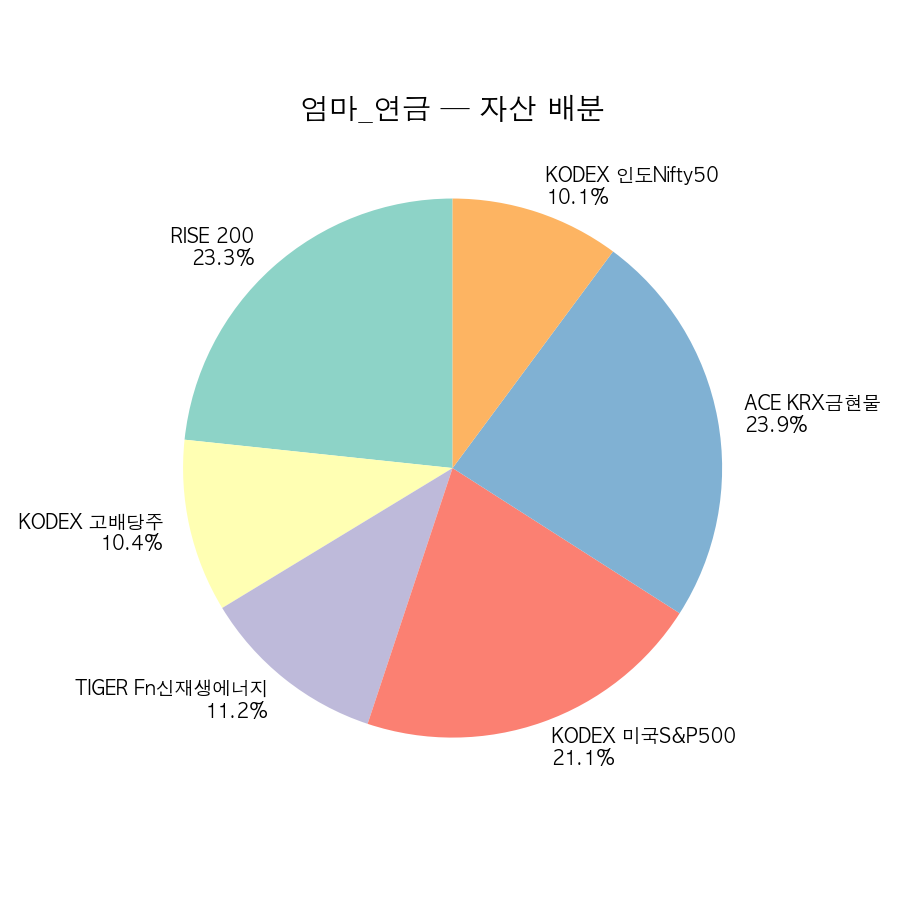
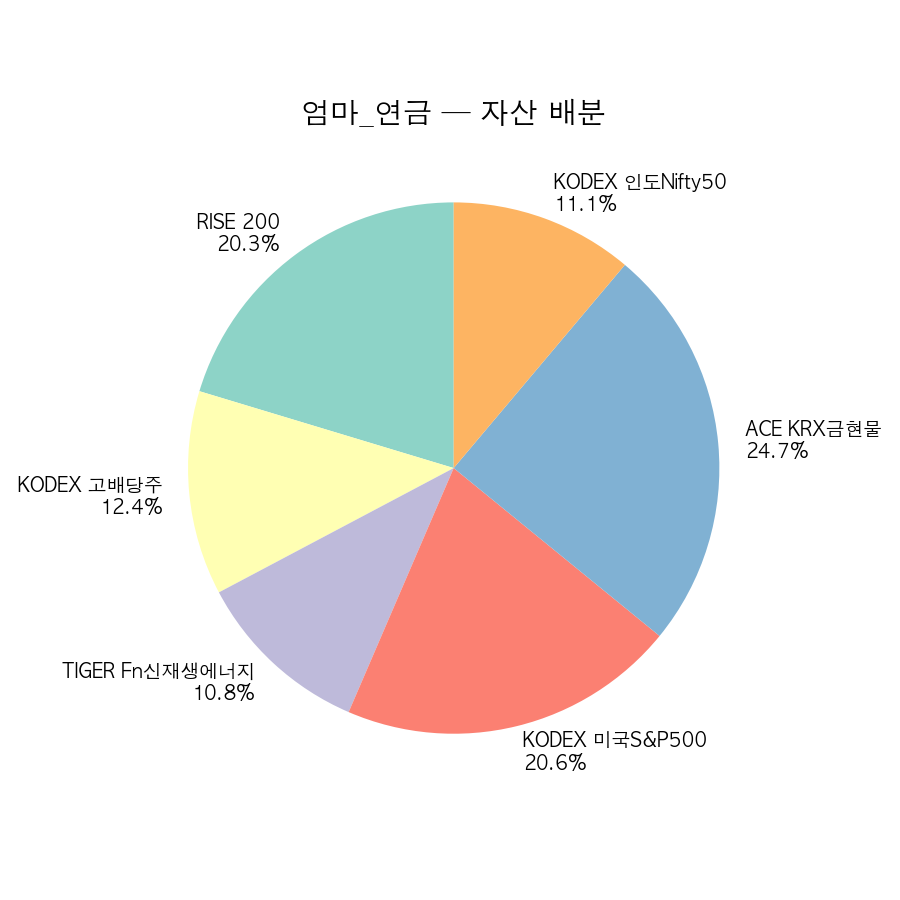
섹션별 주간 리포트 (자동 생성)

diff --git a/_posts/2026-11-06-etf-weekly-week31.md b/_posts/2026-11-06-etf-weekly-week31.md
@@ -1,0 +1,50 @@
+---
+layout: post
+title: "Week 31 — 부모님 연금 ETF 주간 리포트"
+date: 2026-11-06
+categories: [investing, etf]
+tags: [weekly]
+---
+
+> 부모님 연금저축 ETF 실험 — 31주차 기록.
+
+---
+
+## 31주차 성과
+
+### 엄마_연금
+
+| 종목 | 수량 | 평단가 | 종가 | 평가액 | 수익률 |
+|------|------|--------|------|--------|--------|
+| ACE KRX금현물 | 47주 | ₩30,513 | ₩24,655 | ₩1,158,785 | -19.2% |
+| KODEX 미국S&P500 | 43주 | ₩23,192 | ₩22,415 | ₩963,845 | -3.4% |
+| RISE 200 | 12주 | ₩86,453 | ₩79,330 | ₩951,960 | -8.2% |
+| KODEX 고배당주 | 36주 | ₩16,552 | ₩16,160 | ₩581,760 | -2.4% |
+| KODEX 인도Nifty50 | 44주 | ₩12,372 | ₩11,860 | ₩521,840 | -4.1% |
+| TIGER Fn신재생에너지 | 31주 | ₩27,199 | ₩16,285 | ₩504,835 | -40.1% |
+
+**투자 ₩5,452,207 → 평가 ₩4,683,025 | -769,182원 (-14.1%)**
+
+예수금: ₩1,352,218
+---
+
+### 아빠_연금
+
+| 종목 | 수량 | 평단가 | 종가 | 평가액 | 수익률 |
+|------|------|--------|------|--------|--------|
+| ACE KRX금현물 | 47주 | ₩30,514 | ₩24,655 | ₩1,158,785 | -19.2% |
+| KODEX 미국S&P500 | 43주 | ₩23,191 | ₩22,415 | ₩963,845 | -3.3% |
+| RISE 200 | 12주 | ₩86,489 | ₩79,330 | ₩951,960 | -8.3% |
+| TIGER 미국배당다우존스 | 40주 | ₩14,554 | ₩15,250 | ₩610,000 | +4.8% |
+| KODEX 인도Nifty50 | 44주 | ₩12,379 | ₩11,860 | ₩521,840 | -4.2% |
+| TIGER Fn신재생에너지 | 31주 | ₩27,193 | ₩16,285 | ₩504,835 | -40.1% |
+| PLUS 고배당주 | 1주 | ₩25,370 | ₩22,015 | ₩22,015 | -13.2% |
+
+**투자 ₩5,464,407 → 평가 ₩4,733,280 | -731,127원 (-13.4%)**
+
+예수금: ₩741,743
+
+
+---
+
+*데이터: 한국투자증권 KIS Open API / 2026-11-06 장 마감 기준*

diff --git a/_posts/2026-11-06-dividend-weekly-week31.md b/_posts/2026-11-06-dividend-weekly-week31.md
@@ -1,0 +1,32 @@
+---
+layout: post
+title: "Week 31 — ISA 배당 포트 주간 리포트"
+date: 2026-11-06
+categories: [investing, dividend]
+tags: [weekly]
+---
+
+> ISA 배당 포트폴리오 — 31주차 기록.
+
+---
+
+## 31주차 성과
+
+### 한투_ISA
+
+| 종목 | 수량 | 평단가 | 종가 | 평가액 | 수익률 |
+|------|------|--------|------|--------|--------|
+| KT&G | 11주 | ₩168,800 | ₩189,900 | ₩2,088,900 | +12.5% |
+| 빙그레 | 25주 | ₩73,915 | ₩81,900 | ₩2,047,500 | +10.8% |
+| KODEX 고배당주 | 126주 | ₩17,781 | ₩16,160 | ₩2,036,160 | -9.1% |
+| 고려신용정보 | 230주 | ₩9,943 | ₩8,810 | ₩2,026,300 | -11.4% |
+| 삼성화재우 | 5주 | ₩378,520 | ₩374,000 | ₩1,870,000 | -1.2% |
+
+**투자 ₩10,124,583 → 평가 ₩10,068,860 | -55,723원 (-0.6%)**
+
+예수금: ₩59,307
+
+
+---
+
+*데이터: 한국투자증권 KIS Open API / 2026-11-06 장 마감 기준*
